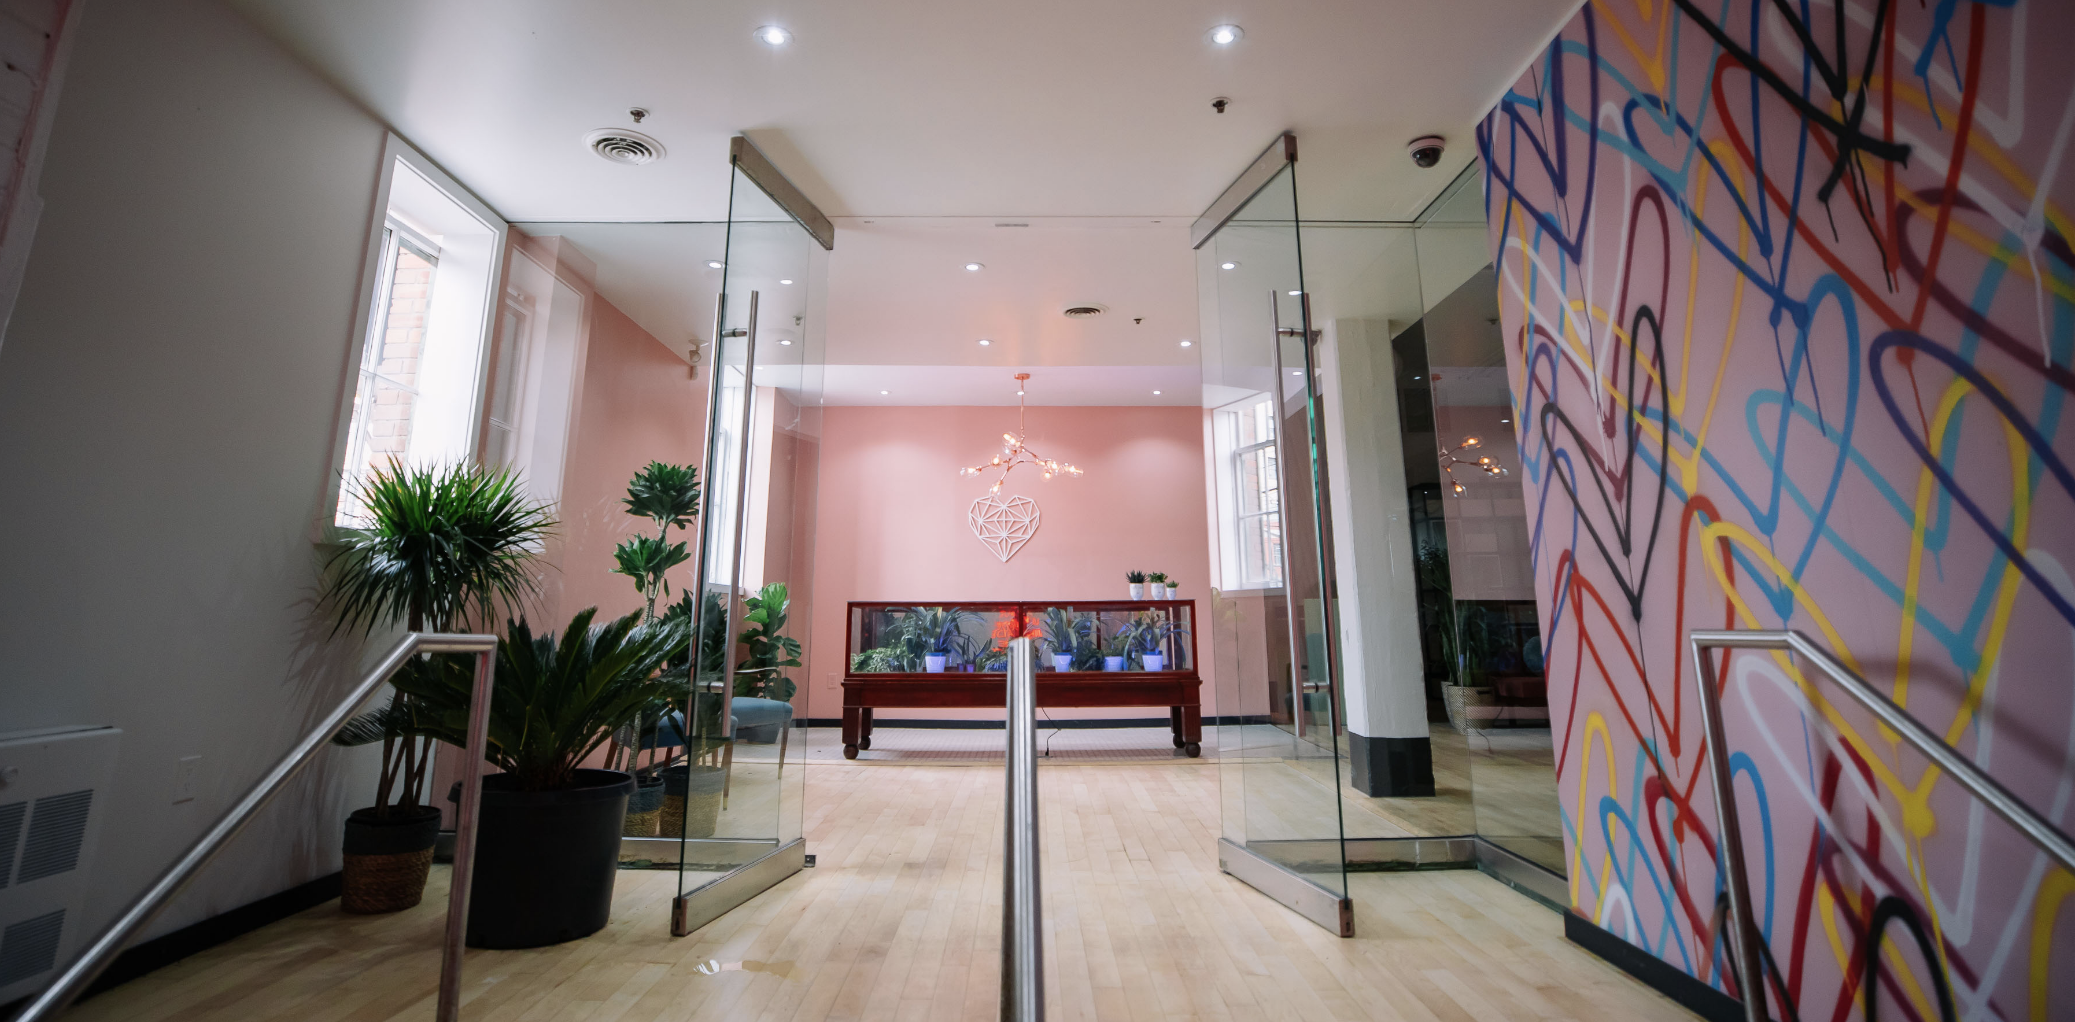
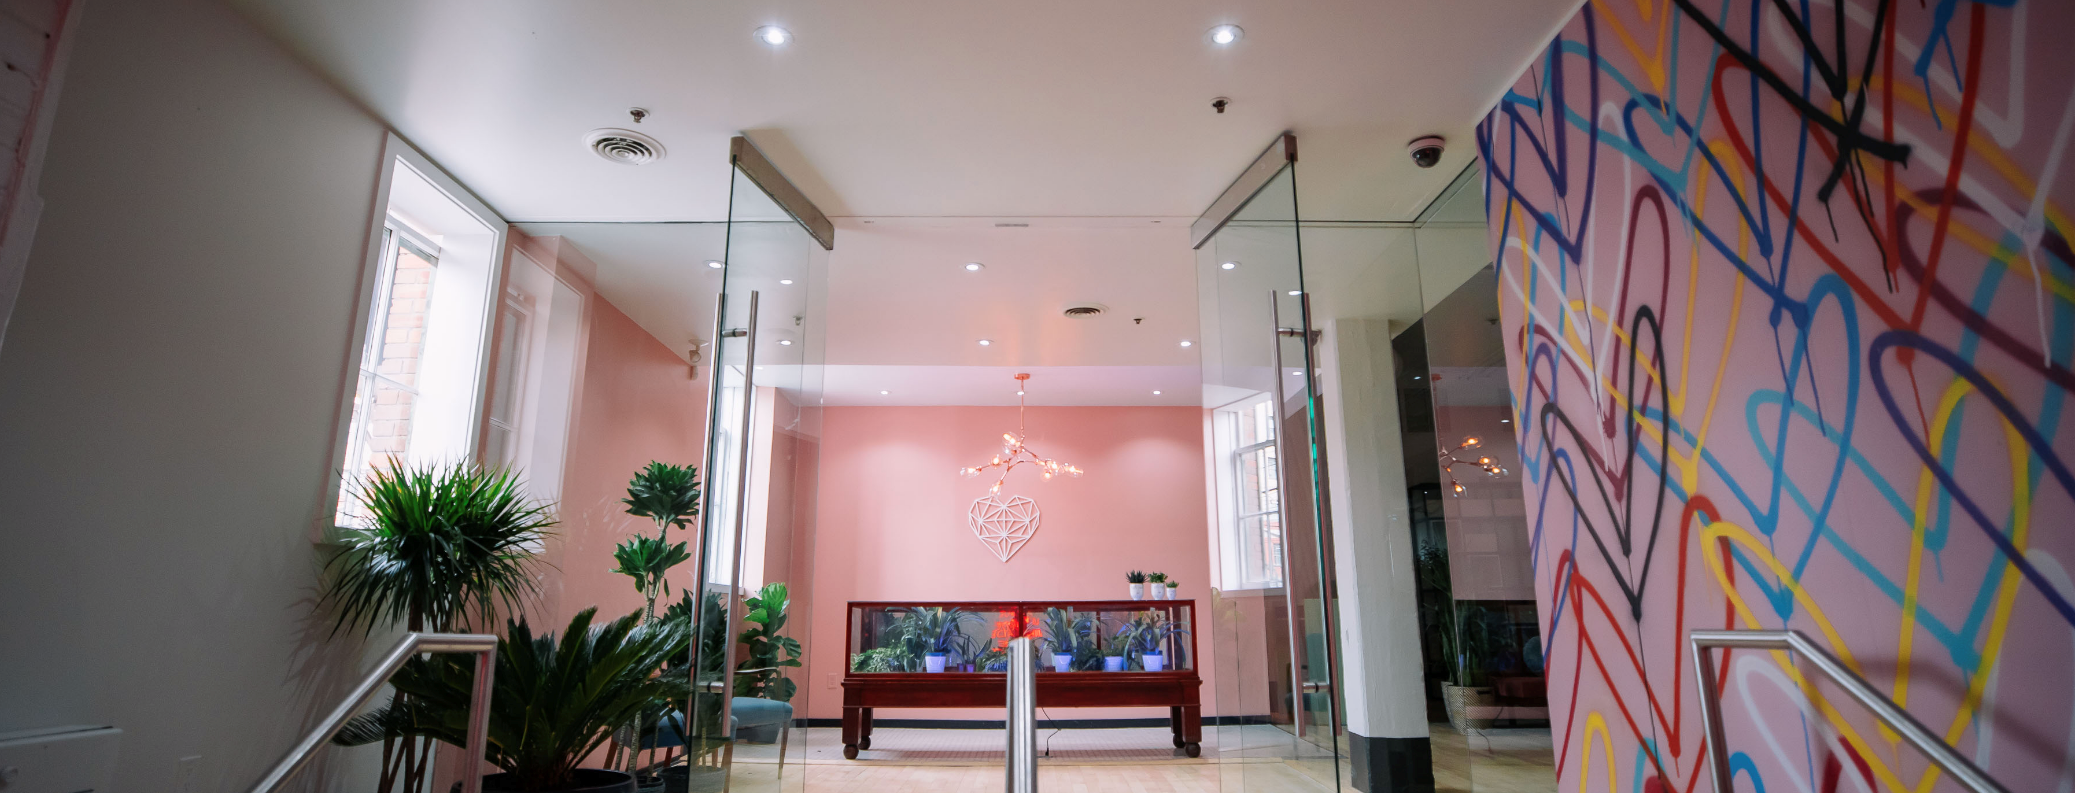
Set up Contact Page.

diff --git a/src/contact.html b/src/contact.html
@@ -1,8 +1,28 @@
 <html>
   <head>
+    <link href="https://fonts.googleapis.com/css?family=Nunito:300,700" rel="stylesheet">
   </head>
   <body>
-    <div>Bye world!</div>
-    <div>Bye world!</div>
+    <div class="navBar">
+      <a href="index.html" class="logo-box">
+      <img src="assets/images/icons-logo.png" alt="Our Space Logo">
+    </a>
+      <div id="menuItems">
+        <a href="amenities.html">Amenities</a>
+        <a href="membership.html">Membership</a>
+        <a href="contact.html">Contact</a>
+      </div>
+      <div class="hamburger-menu-box">
+        <img src="assets/images/icons-menu.png" id="hamburger" alt="hamburger menu">
+      </div>
+    </div>
+    <div class="mainContent">
+      <div class="splashImage Entrance">
+        <img src="assets/images/building-entrance-thin.png" alt="Building Entrance">
+      </div>
+      <div class="generalMessage">
+        <p>Put Info Here</p>
+      </div>
+    </div>
   </body>
 </html>

diff --git a/src/sass/styles.scss b/src/sass/styles.scss
@@ -43,10 +43,11 @@ body {
   flex-direction: row;
   justify-content: space-between;
   align-items: center;
-  div {
+  div, a {
     align-items: center;
+    max-height: 100%;
     img {
-      max-height: 100%;
+      max-height: inherit;
       max-width: 100%;
     }
   }
@@ -57,6 +58,9 @@ body {
   height: inherit;
   @media screen and (min-width: 700px) {
     display: none;
+  }
+  &:hover {
+    cursor: pointer;
   }
 }
 
@@ -117,7 +121,6 @@ body {
   height: 40%;
   overflow: hidden;
   display: flex;
-  align-items: center;
   justify-content: center;
   @media screen and (min-width: 700px) {
     height: 50%;
@@ -125,6 +128,14 @@ body {
   @media screen and (min-width: 950px) {
     height: 60%;
   }
+}
+
+.mainRoom {
+  align-items: center;
+}
+
+.Entrance {
+  align-items: flex-end;
 }
 
 .generalMessage {

diff --git a/src/index.html b/src/index.html
@@ -17,8 +17,8 @@
       </div>
     </div>
     <div class="mainContent">
-      <div class="splashImage">
-        <img src="assets/images/building-main-large.png" alt="Main Entry Way"> 
+      <div class="splashImage mainRoom">
+        <img src="assets/images/building-main-large.png" alt="Main Work Room">
         <!-- <img class="image"
            srcset="assets/images/building-meeting.png 500w,
                    assets/images/building-main-large.png 1000w,
